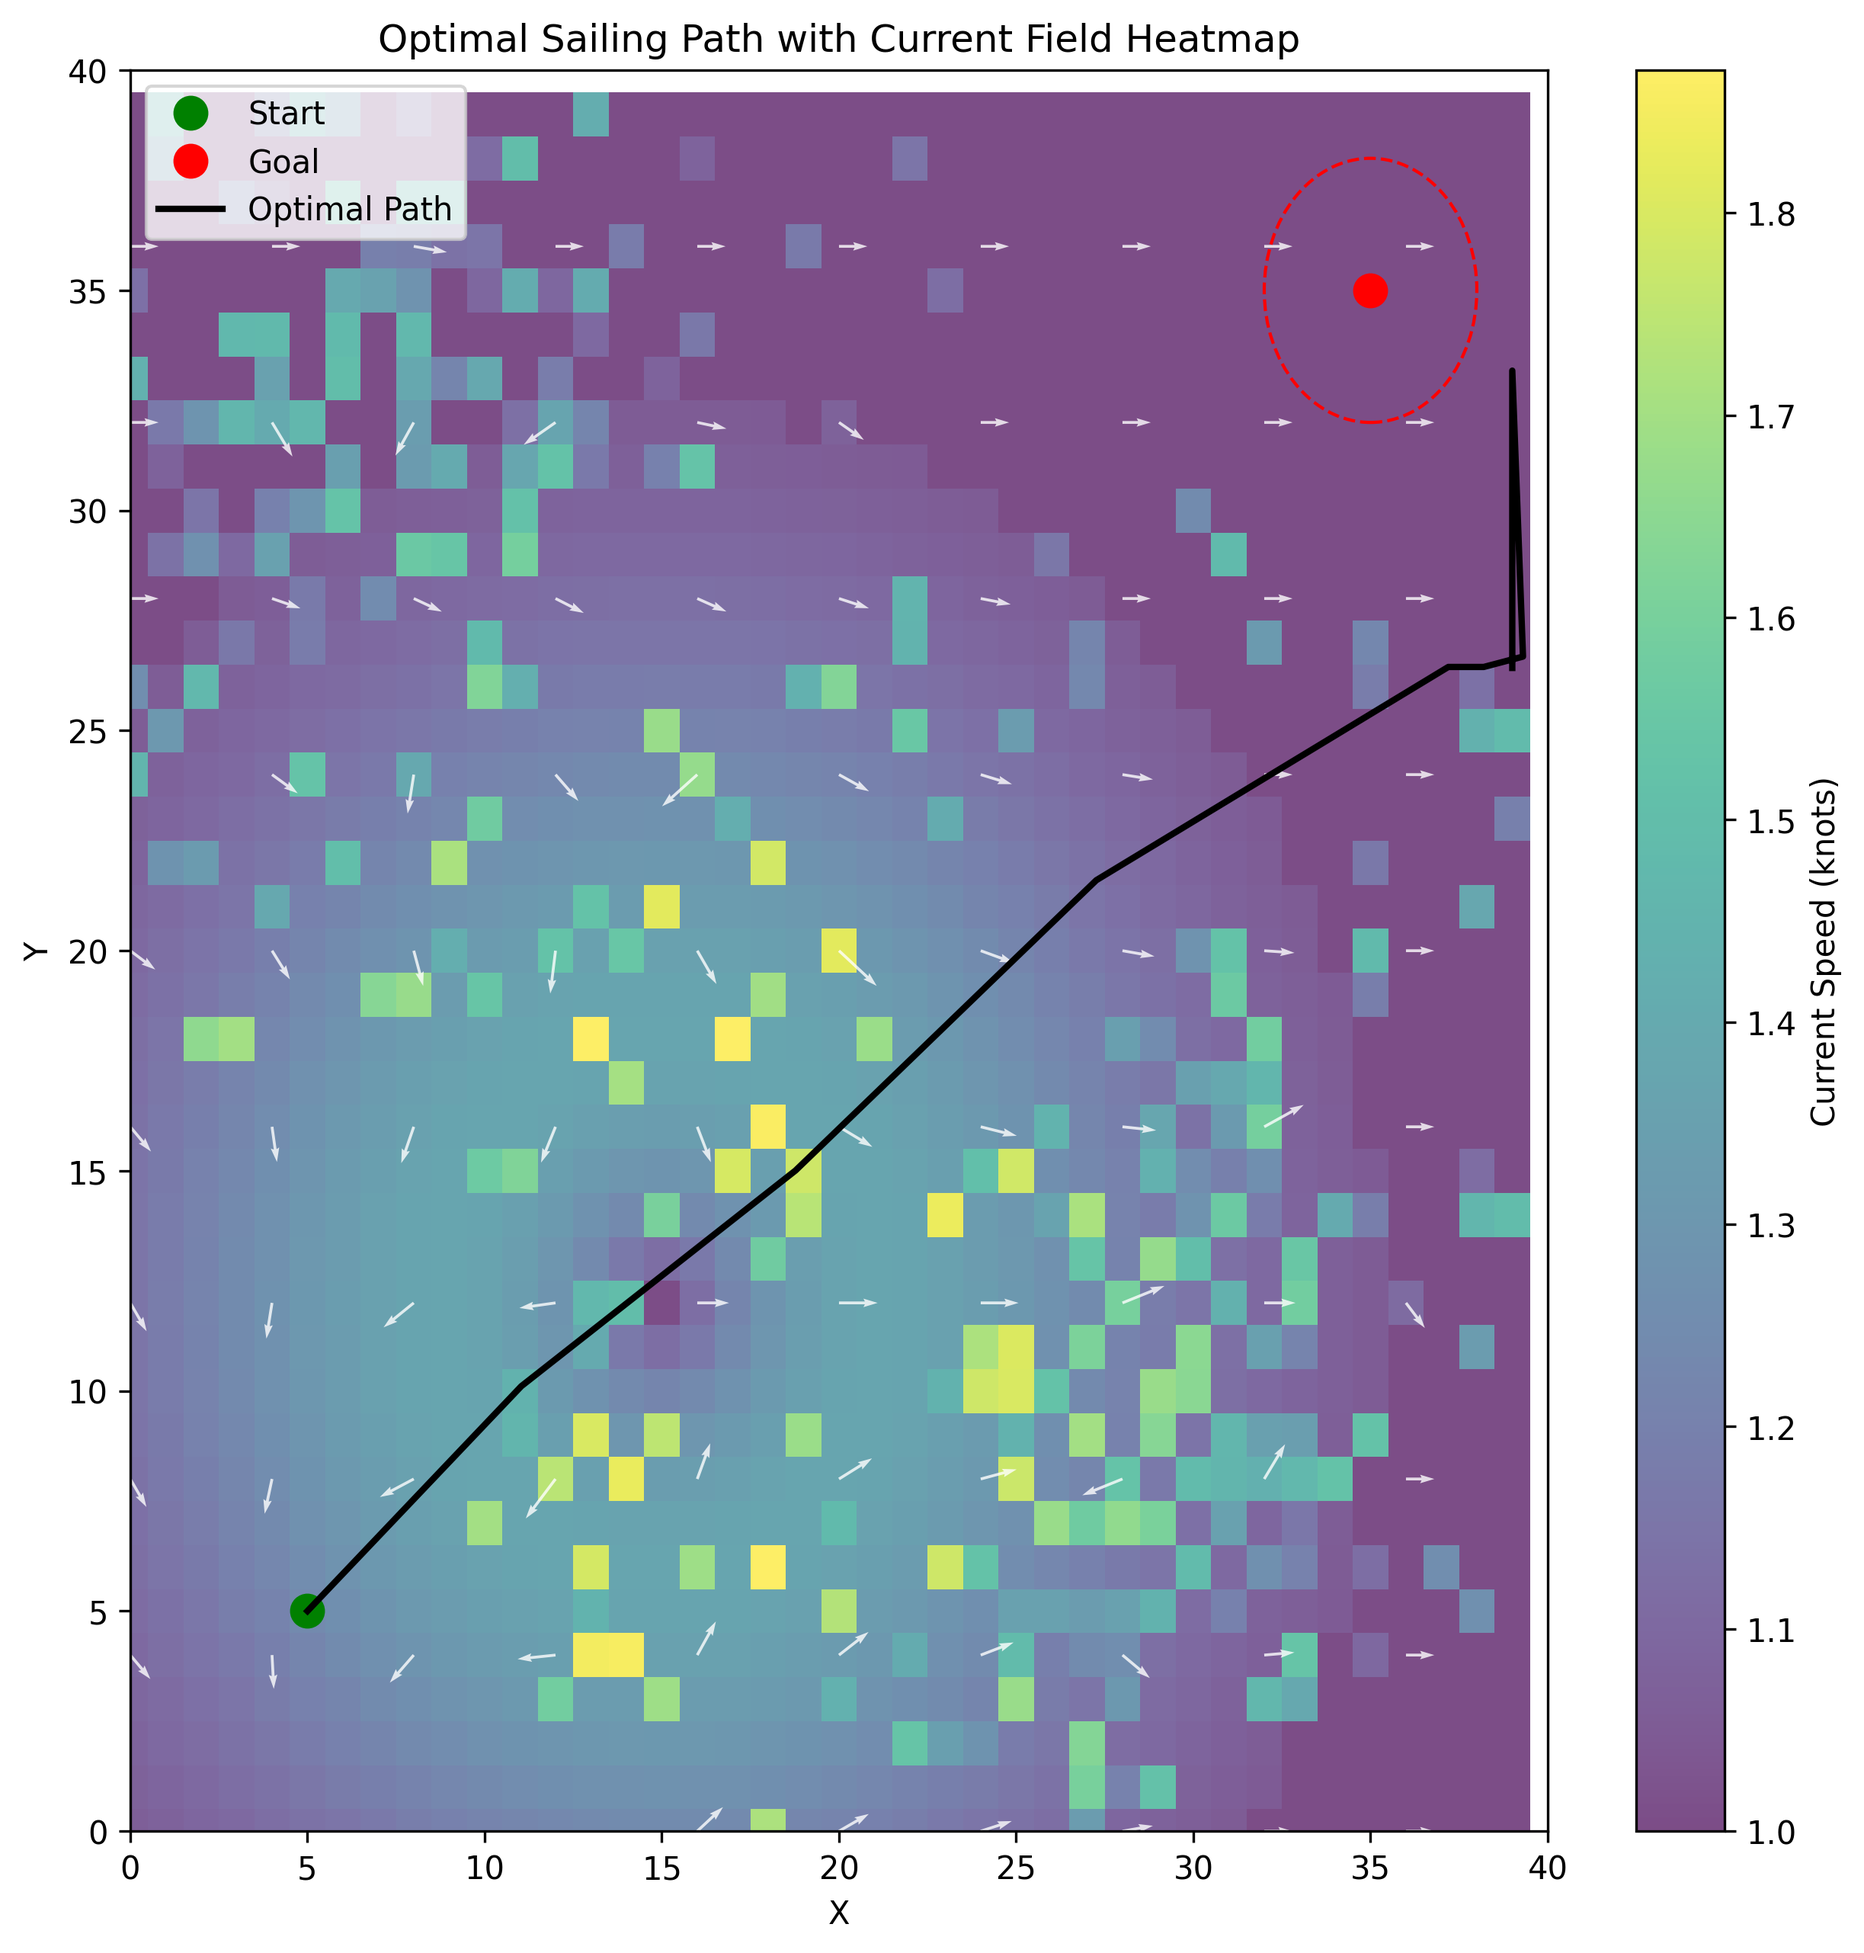
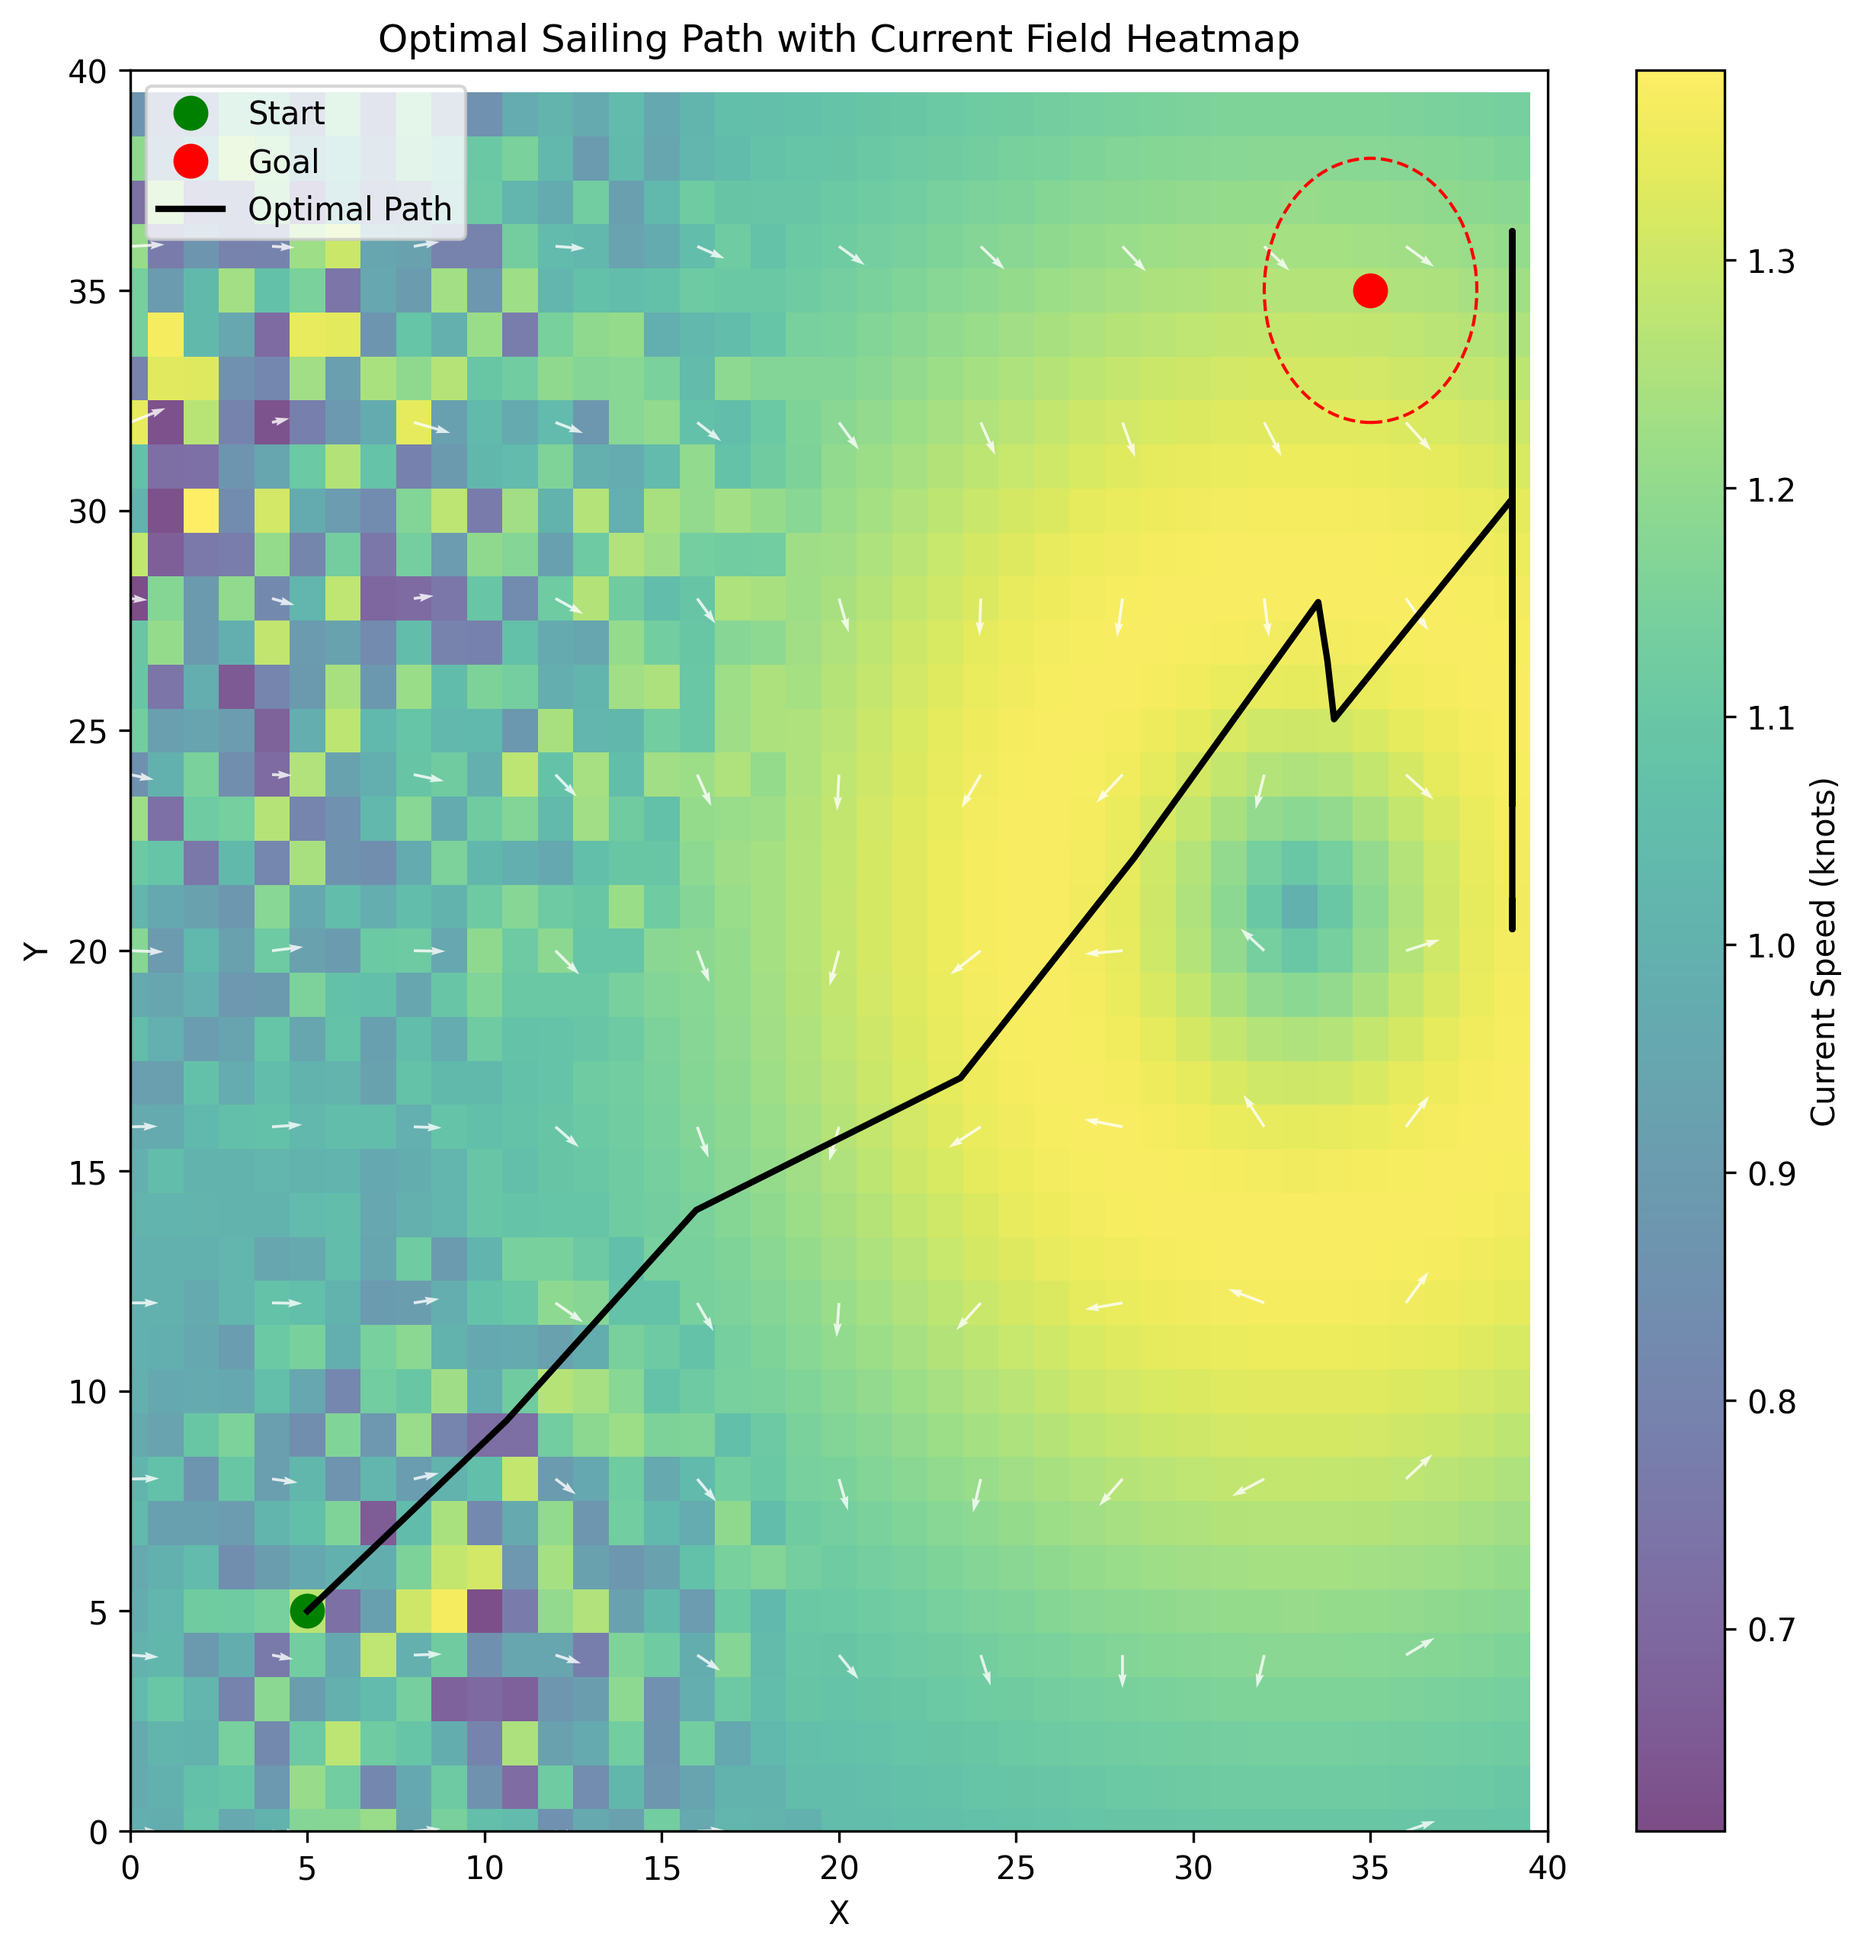
Integrate current into MCTS

diff --git a/mcts.py b/mcts.py
@@ -15,37 +15,53 @@ from tqdm import tqdm
 class DiscreteStateConverter:
     """Converts continuous sailing states to a reduced state space focusing on gusts/lulls."""
 
-    def __init__(self, grid_size_x, grid_size_y, gust_threshold=16.0, lull_threshold=13.0, grid_resolution=10):
+    def __init__(self, sailing_env, grid_size_x, grid_size_y, gust_threshold=16.0, lull_threshold=13.0, strong_current_threshold=2.0, weak_current_threshold=0.5, grid_resolution=10):
+        self.sailing_env = sailing_env
         self.grid_size_x = grid_size_x
         self.grid_size_y = grid_size_y
         self.gust_threshold = gust_threshold  # High wind speed threshold
         self.lull_threshold = lull_threshold  # Low wind speed threshold
+        self.strong_current_threshold = strong_current_threshold  # Strong current threshold
+        self.weak_current_threshold = weak_current_threshold  # Weak current threshold
         self.grid_resolution= grid_resolution
 
         # Cache gust and lull locations
         self.gust_positions = []  # List of (x, y) locations with strong gusts
         self.lull_positions = []  # List of (x, y) locations with weak wind
 
-    def precompute_gusts_and_lulls(self, wind_grid):
+    def precompute_gusts_and_lulls(self, wind_grid, current_grid):
         """Identify gusts and lulls at exact points where wind speed is above or below the threshold."""
         self.gust_positions = []
         self.lull_positions = []
+        self.strong_current_positions = []
+        self.weak_current_positions = []
 
         for x in range(self.grid_size_x):
             for y in range(self.grid_size_y):
                 wind_speed, _ = wind_grid.get_wind_at_position(x, y)
-                if x == 24 and y == 0:
-                    print(f"WIND SPEED WHEN PRECOMPUTING GUSTS AND LULLS: {wind_speed}")
-                if wind_speed > self.gust_threshold:  # Strictly above the threshold
+                current_speed, _ = current_grid.get_current_at_position(x, y)
+
+                # Detect gusts and lulls
+                if wind_speed > self.gust_threshold:
                     self.gust_positions.append((x, y))
-                elif wind_speed < self.lull_threshold:  # Strictly below the threshold
+                elif wind_speed < self.lull_threshold:
                     self.lull_positions.append((x, y))
 
-        # Ensure gust and lull lists are not empty
+                # Detect strong and weak currents
+                if current_speed > self.strong_current_threshold:
+                    self.strong_current_positions.append((x, y))
+                elif current_speed < self.weak_current_threshold:
+                    self.weak_current_positions.append((x, y))
+
+        # Ensure lists are not empty to avoid errors
         if not self.gust_positions:
-            self.gust_positions.append((0, 0))  # Default gust position to avoid errors
+            self.gust_positions.append((0, 0))
         if not self.lull_positions:
-            self.lull_positions.append((self.grid_size_x - 1, self.grid_size_y - 1))  # Default lull position
+            self.lull_positions.append((self.grid_size_x - 1, self.grid_size_y - 1))
+        if not self.strong_current_positions:
+            self.strong_current_positions.append((0, 0))
+        if not self.weak_current_positions:
+            self.weak_current_positions.append((self.grid_size_x - 1, self.grid_size_y - 1))
 
     def get_nearest_gust_lull(self, x, y):
         """Find the nearest gust and lull to the given position."""
@@ -59,11 +75,41 @@ class DiscreteStateConverter:
 
         return gust_distance, lull_distance
 
+    def get_nearest_current(self, x, y):
+        """Find the nearest strong and weak current zone."""
+        nearest_strong_current = min(self.strong_current_positions, key=lambda p: (p[0] - x) ** 2 + (p[1] - y) ** 2,
+                                     default=None)
+        nearest_weak_current = min(self.weak_current_positions, key=lambda p: (p[0] - x) ** 2 + (p[1] - y) ** 2,
+                                   default=None)
+
+        strong_current_dist = ((nearest_strong_current[0] - x) ** 2 + (
+                    nearest_strong_current[1] - y) ** 2) ** 0.5 if nearest_strong_current else float('inf')
+        weak_current_dist = ((nearest_weak_current[0] - x) ** 2 + (
+                    nearest_weak_current[1] - y) ** 2) ** 0.5 if nearest_weak_current else float('inf')
+
+        return strong_current_dist, weak_current_dist
+
     def get_reduced_state(self, position, heading):
-        """Convert continuous state into a reduced representation."""
+        """Convert continuous state into a reduced representation including current direction."""
         x, y = position
         gust_dist, lull_dist = self.get_nearest_gust_lull(x, y)
-        return (round(x), round(y), round(heading % 360, -1), round(gust_dist, 1), round(lull_dist, 1))
+        strong_current_dist, weak_current_dist = self.get_nearest_current(x, y)
+
+        # Get current direction at this position
+        current_speed, current_dir = self.sailing_env.current_grid.get_current_at_position(x, y)
+
+        # Compute the angle between the boat's heading and the current direction
+        current_relative_angle = abs((heading - current_dir) % 360)
+        if current_relative_angle > 180:
+            current_relative_angle = 360 - current_relative_angle  # Convert to [0, 180]
+
+        return (
+            round(x), round(y),
+            round(heading % 360, -1),  # Round heading to nearest 10 degrees
+            round(gust_dist, 1), round(lull_dist, 1),
+            round(strong_current_dist, 1), round(weak_current_dist, 1),
+            round(current_relative_angle, -1)  # Round current-relative angle to nearest 10 degrees
+        )
 
 
 #########################
@@ -130,30 +176,43 @@ class SailingMCTS:
         self.state_converter = state_converter
         self.iterations = iterations
         self.exploration_weight = exploration_weight
-        self.state_converter.precompute_gusts_and_lulls(self.sailing_env.wind_grid)
+        self.state_converter.precompute_gusts_and_lulls(self.sailing_env.wind_grid, self.sailing_env.current_grid)
 
     def calculate_reward(self, state, next_state):
-        """Calculate reward based on distance to gusts/lulls and progress to goal."""
-        x1, y1, heading1, gust_dist1, lull_dist1 = state
-        x2, y2, heading2, gust_dist2, lull_dist2 = next_state
+        """Calculate reward based on wind, currents, and progress to goal."""
+        x1, y1, heading1, gust_dist1, lull_dist1, strong_current_dist1, weak_current_dist1, current_rel_angle1 = state
+        x2, y2, heading2, gust_dist2, lull_dist2, strong_current_dist2, weak_current_dist2, current_rel_angle2 = next_state
 
         goal_x, goal_y = self.sailing_env.goal_pos
-        dist1 = ((goal_x - x1) ** 2 + (goal_y - y1) ** 2) ** 0.5
-        dist2 = ((goal_x - x2) ** 2 + (goal_y - y2) ** 2) ** 0.5
+        dist1 = np.hypot(goal_x - x1, goal_y - y1)
+        dist2 = np.hypot(goal_x - x2, goal_y - y2)
 
-        progress_reward = 200.0 * (dist1 - dist2)  # Increased weight for moving forward
-        gust_reward = 100.0 / (gust_dist2 + 1e-3)  # Larger reward when closer to gust
-        lull_penalty = -100.0 / (lull_dist2 + 1e-3)  # Larger penalty when closer to lull
-        heading_penalty = -0.5 * abs(heading2 - heading1)  # Reduce unnecessary heading changes
+        progress_reward = 200.0 * (dist1 - dist2)  # Reward progress towards goal
+        gust_reward = 100.0 / (gust_dist2 + 1e-3)  # Encourage moving into gusts
+        lull_penalty = -100.0 / (lull_dist2 + 1e-3)  # Penalize moving into lulls
 
-        # Encourage sailing at optimal wind angles
+        # Encourage following strong currents
+        strong_current_reward = 80.0 / (strong_current_dist2 + 1e-3)
+        weak_current_penalty = -50.0 / (weak_current_dist2 + 1e-3)
+
+        # Wind penalty for bad angles
         wind_speed, wind_dir = self.sailing_env.wind_grid.get_wind_at_position(x2, y2)
         twa = abs((heading2 - wind_dir) % 360)
         if twa > 180:
             twa = 360 - twa
-        wind_angle_penalty = -20.0 if twa < self.sailing_env.polar_model.min_upwind_angle else 0  # Discourage sailing into no-go zone
+        wind_angle_penalty = -20.0 if twa < self.sailing_env.polar_model.min_upwind_angle else 0
 
-        return progress_reward + gust_reward + lull_penalty + heading_penalty + wind_angle_penalty
+        # **NEW: Reward/penalize alignment with current**
+        if current_rel_angle2 < 45:  # Favorable current (aligned within 45 degrees)
+            current_alignment_reward = 100.0 / (current_rel_angle2 + 1e-3)
+        elif current_rel_angle2 > 135:  # Opposing current (nearly opposite direction)
+            current_alignment_reward = -150.0 / (180 - current_rel_angle2 + 1e-3)
+        else:  # Neutral current (perpendicular)
+            current_alignment_reward = -50.0 / (90 - abs(current_rel_angle2 - 90) + 1e-3)
+
+        return (progress_reward + gust_reward + lull_penalty +
+                strong_current_reward + weak_current_penalty +
+                wind_angle_penalty + current_alignment_reward)
 
     def find_optimal_path(self, max_steps=100):
         """Find optimal path from start to goal."""
@@ -186,8 +245,6 @@ class SailingMCTS:
         for i in range(len(x)):
             for j in range(len(y)):
                 wind_speed, wind_dir = self.sailing_env.wind_grid.get_wind_at_position(i, j)
-                if i == 24 and j == 0:
-                    print(f"WIND SPEED WHEN VISUALIZING PATH: {wind_speed}")
                 wind_rad = np.radians(wind_dir)
                 U[i, j] = wind_speed * np.sin(wind_rad)
                 V[i, j] = wind_speed * np.cos(wind_rad)
@@ -320,11 +377,10 @@ class SailingMCTS:
         return max(root.children.items(), key=lambda x: x[1].visits)[0] if root.children else random.choice(
             list(root.untried_actions))
 
-
     def simulate_action(self, state, action):
         """Simulate taking an action from the current state using wind, current, and polar model."""
-        x, y, heading, _, _ = state
-        heading = (heading + self.sailing_env.actions[action]) % 360
+        x, y, heading, _, _, _, _, _ = state
+        heading = (heading + self.sailing_env.actions[action]) % 360  # Apply action (change heading)
 
         # Get wind data
         wind_speed, wind_dir = self.sailing_env.wind_grid.get_wind_at_position(x, y)
@@ -336,20 +392,25 @@ class SailingMCTS:
         boat_speed = self.sailing_env.polar_model.get_boat_speed(true_wind_angle, wind_speed)
 
         # Get current data
+        current_speed, current_dir = 0.0, 0.0
         if self.sailing_env.use_currents:
             current_speed, current_dir = self.sailing_env.current_grid.get_current_at_position(x, y)
-            current_x, current_y = self.sailing_env.current_grid.get_current_vector_at_position(x, y)
-        else:
-            current_x, current_y = 0.0, 0.0
 
-        # Calculate movement
+        # Convert angles to radians
         heading_rad = np.radians(heading)
+        current_rad = np.radians(current_dir)
+
+        # Compute boat velocity components
         boat_dx = boat_speed * np.sin(heading_rad)
         boat_dy = boat_speed * np.cos(heading_rad)
 
-        # Combine boat movement with current
-        new_x = max(0, min(self.sailing_env.grid_size_x - 1, x + round(boat_dx + current_x)))
-        new_y = max(0, min(self.sailing_env.grid_size_y - 1, y + round(boat_dy + current_y)))
+        # Compute current velocity components
+        current_dx = current_speed * np.sin(current_rad)
+        current_dy = current_speed * np.cos(current_rad)
+
+        # Combine boat movement with current influence
+        new_x = max(0, min(self.sailing_env.grid_size_x - 1, x + round(boat_dx + current_dx)))
+        new_y = max(0, min(self.sailing_env.grid_size_y - 1, y + round(boat_dy + current_dy)))
 
         return self.state_converter.get_reduced_state((new_x, new_y), heading)
 
@@ -362,6 +423,7 @@ def optimize_sailing_path(sailing_env, mcts_iterations=10000):
     """Find optimal sailing path using MCTS"""
     print("Initializing discretized state converter...")
     state_converter = DiscreteStateConverter(
+        sailing_env,
         sailing_env.grid_size_x,
         sailing_env.grid_size_y
     )

diff --git a/windAndCurrent.py b/windAndCurrent.py
@@ -103,7 +103,6 @@ class WindGrid:
         
         # Ensure minimum wind speed
         self.wind_speed = np.maximum(self.wind_speed, self.base_wind_speed * 0.5)
-        print(f"WIND SPEED: {self.wind_speed[0, 24]}")
         # Normalize wind directions to 0-360
         self.wind_dir = self.wind_dir % 360
     
